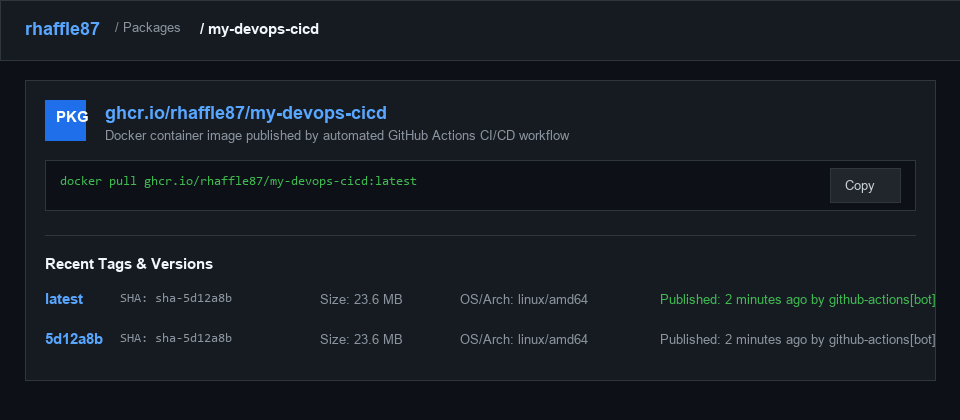
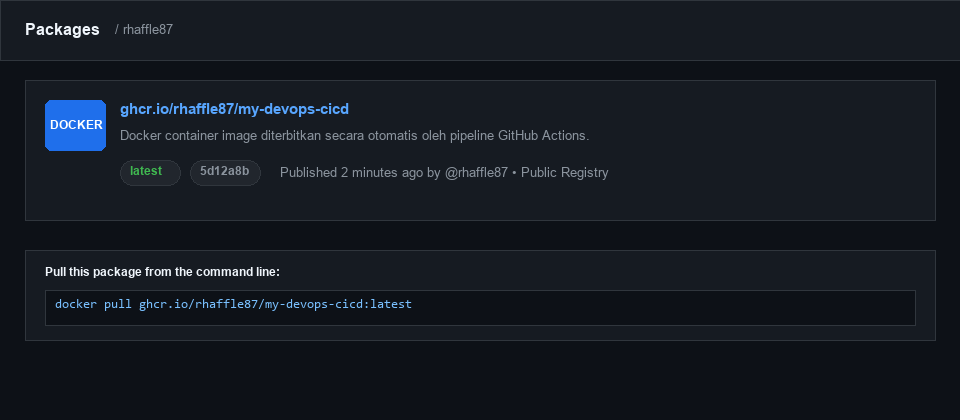
refactor: reorganisasi struktur repositori, arsipkan modul pdf ke docs/references, pindahkan skrip generator, dan lengkapi lab-07

diff --git a/labs/lab-07-linux-webserver/index.html b/labs/lab-07-linux-webserver/index.html
@@ -1,0 +1,50 @@
+<!DOCTYPE html>
+<html lang="id">
+<head>
+    <meta charset="UTF-8">
+    <meta name="viewport" content="width=device-width, initial-scale=1.0">
+    <title>Portofolio Praktikan DevOps - Modul 7</title>
+    <style>
+        * { box-sizing: border-box; margin: 0; padding: 0; }
+        body { font-family: 'Segoe UI', Tahoma, Geneva, Verdana, sans-serif; background: #0f172a; color: #f8fafc; line-height: 1.6; }
+        header { background: #1e293b; padding: 60px 20px; text-align: center; border-bottom: 2px solid #3b82f6; }
+        header h1 { font-size: 2.4rem; color: #60a5fa; margin-bottom: 10px; }
+        header p { font-size: 1.1rem; color: #94a3b8; }
+        .badge { display: inline-block; margin-top: 15px; background: #10b981; color: white; padding: 6px 16px; border-radius: 20px; font-weight: 600; font-size: 0.9rem; }
+        .container { max-width: 900px; margin: 40px auto; padding: 0 20px; }
+        .card-grid { display: grid; grid-template-columns: repeat(auto-fit, minmax(260px, 1fr)); gap: 20px; }
+        .card { background: #1e293b; padding: 25px; border-radius: 10px; border: 1px solid #334155; }
+        .card h2 { color: #38bdf8; font-size: 1.3rem; margin-bottom: 10px; }
+        .card p { color: #cbd5e1; font-size: 0.95rem; }
+        footer { text-align: center; padding: 40px 20px; color: #64748b; font-size: 0.85rem; border-top: 1px solid #1e293b; margin-top: 60px; }
+    </style>
+</head>
+<body>
+    <header>
+        <h1>Platform Web Server Nginx</h1>
+        <p>Modul 7: Dasar Linux Server dan Web Server Nginx</p>
+        <div class="badge">Web Server: Nginx Active & Running</div>
+    </header>
+
+    <div class="container">
+        <div class="card-grid">
+            <div class="card">
+                <h2>Linux Server (WSL2)</h2>
+                <p>Berjalan di lingkungan virtualisasi Ubuntu WSL2 dengan kontrol service berbasis <code>systemctl</code>.</p>
+            </div>
+            <div class="card">
+                <h2>Nginx Master & Worker</h2>
+                <p>Mengadopsi pemrosesan <em>event-driven asynchronous</em> berkinerja tinggi untuk melayani berkas HTML statis.</p>
+            </div>
+            <div class="card">
+                <h2>Virtual Host (Server Block)</h2>
+                <p>Dikonfigurasi melalui <code>/etc/nginx/sites-available/default</code> mengarahkan <em>document root</em> ke direktori web.</p>
+            </div>
+        </div>
+    </div>
+
+    <footer>
+        <p>&copy; 2026 Tim Pelatihan Internal DevOps. Modul 7 Dasar Linux & Web Server.</p>
+    </footer>
+</body>
+</html>

diff --git a/scripts/generate_assets.py b/scripts/generate_assets.py
@@ -1,5 +1,10 @@
 import os
+import sys
 from PIL import Image, ImageDraw, ImageFont
+
+# Set working directory ke root repositori agar path assets/ selalu konsisten
+REPO_ROOT = os.path.dirname(os.path.dirname(os.path.abspath(__file__)))
+os.chdir(REPO_ROOT)
 
 def render_terminal(output_path, title, lines, width=960, min_height=380):
     font_title = ImageFont.truetype('arial.ttf', 13)
@@ -523,6 +528,98 @@ def render_github_actions_mock(output_path, status='success'):
             draw.text((865, y), s_dur, fill='#8b949e', font=font_p)
         y += 28
         
+    os.makedirs(os.path.dirname(output_path), exist_ok=True)
+    img.save(output_path)
+    print(f'Generated: {output_path}')
+
+def render_github_packages_mock(output_path, width=960, height=420):
+    font_title = ImageFont.truetype('arialbd.ttf', 16)
+    font_h2 = ImageFont.truetype('arialbd.ttf', 15)
+    font_p = ImageFont.truetype('arial.ttf', 13)
+    font_bold = ImageFont.truetype('arialbd.ttf', 12)
+    font_code = ImageFont.truetype('consola.ttf', 13)
+
+    img = Image.new('RGB', (width, height), color='#0d1117')
+    draw = ImageDraw.Draw(img)
+
+    # Header bar
+    draw.rectangle([(0, 0), (width, 60)], fill='#161b22', outline='#30363d')
+    draw.text((25, 20), 'Packages', fill='#f0f6fc', font=font_title)
+    draw.text((115, 22), '/ rhaffle87', fill='#8b949e', font=font_p)
+
+    # Package card
+    draw.rectangle([(25, 80), (width - 25, 220)], fill='#161b22', outline='#30363d')
+    draw.rounded_rectangle([(45, 100), (105, 150)], radius=6, fill='#1f6feb')
+    draw.text((50, 118), 'DOCKER', fill='#ffffff', font=font_bold)
+
+    # Package Info
+    draw.text((120, 100), 'ghcr.io/rhaffle87/my-devops-cicd', fill='#58a6ff', font=font_h2)
+    draw.text((120, 128), 'Docker container image diterbitkan secara otomatis oleh pipeline GitHub Actions.', fill='#8b949e', font=font_p)
+    
+    # Tags & metadata
+    draw.rounded_rectangle([(120, 160), (180, 185)], radius=12, fill='#21262d', outline='#30363d')
+    draw.text((130, 164), 'latest', fill='#3fb950', font=font_bold)
+
+    draw.rounded_rectangle([(190, 160), (260, 185)], radius=12, fill='#21262d', outline='#30363d')
+    draw.text((200, 164), '5d12a8b', fill='#8b949e', font=font_bold)
+
+    draw.text((280, 165), 'Published 2 minutes ago by @rhaffle87 \u2022 Public Registry', fill='#8b949e', font=font_p)
+
+    # CLI Pull command snippet box
+    draw.rectangle([(25, 250), (width - 25, 340)], fill='#161b22', outline='#30363d')
+    draw.text((45, 265), 'Pull this package from the command line:', fill='#f0f6fc', font=font_bold)
+    draw.rectangle([(45, 290), (width - 45, 325)], fill='#0d1117', outline='#30363d')
+    draw.text((55, 298), 'docker pull ghcr.io/rhaffle87/my-devops-cicd:latest', fill='#79c0ff', font=font_code)
+
+    os.makedirs(os.path.dirname(output_path), exist_ok=True)
+    img.save(output_path)
+    print(f'Generated: {output_path}')
+
+def render_browser_ssl_warning(output_path, width=960, height=480):
+    font_title = ImageFont.truetype('arial.ttf', 13)
+    font_url = ImageFont.truetype('arial.ttf', 13)
+    font_h1 = ImageFont.truetype('arialbd.ttf', 22)
+    font_p = ImageFont.truetype('arial.ttf', 14)
+    font_btn = ImageFont.truetype('arialbd.ttf', 13)
+    font_code = ImageFont.truetype('consola.ttf', 12)
+
+    img = Image.new('RGB', (width, height), color='#ffffff')
+    draw = ImageDraw.Draw(img)
+
+    # Browser chrome header
+    draw.rectangle([(0, 0), (width, 70)], fill='#dee1e6')
+    draw.ellipse([(14, 14), (24, 24)], fill='#ff5f56')
+    draw.ellipse([(32, 14), (42, 24)], fill='#ffbd2e')
+    draw.ellipse([(50, 14), (60, 24)], fill='#27c93f')
+
+    # Tab
+    draw.rectangle([(90, 8), (280, 38)], fill='#ffffff')
+    draw.text((105, 14), 'Privacy error', fill='#3c4043', font=font_title)
+
+    # URL bar with Not Secure / Red badge
+    draw.rectangle([(80, 42), (width - 30, 64)], fill='#ffffff', outline='#dadce0')
+    draw.rectangle([(85, 45), (175, 61)], fill='#fce8e6', outline='#fad2cf')
+    draw.text((90, 47), '\u26a0 Not secure', fill='#c5221f', font=font_title)
+    draw.text((185, 45), 'https://localhost', fill='#3c4043', font=font_url)
+
+    # Warning text
+    draw.text((80, 140), 'Your connection is not private', fill='#202124', font=font_h1)
+    draw.text((80, 180), 'Attackers might be trying to steal your information from localhost (for example, passwords, messages, or credit cards).', fill='#5f6368', font=font_p)
+    draw.text((80, 220), 'NET::ERR_CERT_AUTHORITY_INVALID', fill='#5f6368', font=font_code)
+
+    # Buttons
+    # Advanced Button
+    draw.rectangle([(80, 280), (180, 316)], fill='#ffffff', outline='#dadce0')
+    draw.text((100, 290), 'Advanced', fill='#1a73e8', font=font_btn)
+
+    # Back to safety button
+    draw.rectangle([(width - 200, 280), (width - 60, 316)], fill='#1a73e8')
+    draw.text((width - 175, 290), 'Back to safety', fill='#ffffff', font=font_btn)
+
+    # Explanation text for Advanced
+    draw.text((80, 340), 'This server could not prove that it is localhost; its security certificate is not trusted by your operating system.', fill='#5f6368', font=font_p)
+    draw.text((80, 370), '\u2192 Proceed to localhost (unsafe)', fill='#1a73e8', font=font_btn)
+
     os.makedirs(os.path.dirname(output_path), exist_ok=True)
     img.save(output_path)
     print(f'Generated: {output_path}')

diff --git a/README.md b/README.md
@@ -16,7 +16,7 @@ flowchart LR
 
 | Modul | Topik Materi | Dokumen Panduan | Direktori Praktikum |
 | :---: | :--- | :--- | :--- |
-| **07** | **Dasar Linux & Web Server**<br>WSL, Struktur Direktori Ubuntu, Nginx Server Block, Git Clone | [Buka Modul 7](modul/MODUL_07_DASAR_LINUX_DAN_WEBSERVER.md) | - |
+| **07** | **Dasar Linux & Web Server**<br>WSL, Struktur Direktori Ubuntu, Nginx Server Block, Git Clone | [Buka Modul 7](modul/MODUL_07_DASAR_LINUX_DAN_WEBSERVER.md) | [`labs/lab-07-linux-webserver/`](labs/lab-07-linux-webserver/) |
 | **08** | **Otomasi Git & Shell Scripting**<br>Git Workflow, Defensive Shell Scripting, Zero-Downtime Reload, cURL Health Check | [Buka Modul 8](modul/MODUL_08_OTOMASI_GIT_DAN_SHELL_SCRIPTING.md) | [`labs/lab-08-automation/`](labs/lab-08-automation/) |
 | **09** | **Containerization dengan Docker**<br>Docker Engine, Dockerfile, Nginx Alpine, Bind Mount Volume, Docker Compose | [Buka Modul 9](modul/MODUL_09_CONTAINERIZATION_DOCKER.md) | [`labs/lab-09-docker/`](labs/lab-09-docker/) |
 | **10** | **CI/CD Pipeline dengan GitHub Actions**<br>Automated Linting, Docker Build & Push ke GHCR, GitHub Secrets | [Buka Modul 10](modul/MODUL_10_CICD_GITHUB_ACTIONS.md) | [`labs/lab-10-cicd/`](labs/lab-10-cicd/) |
@@ -28,38 +28,53 @@ flowchart LR
 
 ```text
 basic-devops/
-├── .gitignore
-├── README.md
-├── generate_assets.py
-├── assets/
-│   ├── modul-07/                                         # Tangkapan layar langkah Modul 7
-│   ├── modul-08/                                         # Tangkapan layar terminal & browser Modul 8
-│   ├── modul-09/                                         # Tangkapan layar Docker container Modul 9
-│   ├── modul-10/                                         # Tangkapan layar GitHub Actions & GHCR Modul 10
-│   └── modul-11/                                         # Tangkapan layar SSL, Proxy & Logs Modul 11
-├── modul/
+├── .gitignore                                            # Konfigurasi pengabaian file Git
+├── README.md                                             # Dokumentasi utama kurikulum
+├── assets/                                               # Tangkapan layar visual terminal CLI & antarmuka web
+│   ├── modul-07/                                         # Tangkapan layar langkah Modul 7 (16 gambar)
+│   ├── modul-08/                                         # Tangkapan layar terminal & browser Modul 8 (9 gambar)
+│   ├── modul-09/                                         # Tangkapan layar Docker container Modul 9 (8 gambar)
+│   ├── modul-10/                                         # Tangkapan layar GitHub Actions & GHCR Modul 10 (6 gambar)
+│   └── modul-11/                                         # Tangkapan layar SSL, Proxy & Logs Modul 11 (9 gambar)
+├── docs/                                                 # Dokumentasi & arsip referensi
+│   └── references/                                       # Berkas PDF asli modul pelatihan terdahulu (TNL 1-7)
+│       ├── README.md                                     # Indeks katalog modul referensi
+│       ├── MODUL 1 TNL_VLAN.pdf
+│       ├── MODUL 2 TNL_Inter-VLAN Routing.pdf
+│       ├── MODUL 3 TNL_Static Routing.pdf
+│       ├── MODUL 4 TNL_Dynamic Routing_RIP.pdf
+│       ├── MODUL 5 TNL_OSPF Multi-Area.pdf
+│       ├── MODUL 6_BGP Enterprise Dual ISP dengan OSPF Backbone.pdf
+│       └── MODUL 7 TNL_Dasar Linux dan Dasar Webserver.pdf
+├── labs/                                                 # Kode sumber dan lingkungan praktikum mandiri
+│   ├── lab-07-linux-webserver/                           # Starter template HTML & config Nginx Modul 7
+│   │   ├── index.html
+│   │   ├── nginx-default.conf
+│   │   └── README.md
+│   ├── lab-08-automation/                                # Skrip otomasi shell dan website v1/v2 Modul 8
+│   │   ├── deploy.sh
+│   │   └── index.html
+│   ├── lab-09-docker/                                    # Arsitektur Dockerfile dan Compose Modul 9
+│   │   ├── Dockerfile
+│   │   ├── docker-compose.yml
+│   │   └── src/index.html
+│   ├── lab-10-cicd/                                      # Deklarasi pipeline GitHub Actions Modul 10
+│   │   ├── .github/workflows/ci-cd.yml
+│   │   ├── Dockerfile
+│   │   └── index.html
+│   └── lab-11-reverse-proxy/                             # Cluster reverse proxy, load balancer & SSL Modul 11
+│       ├── docker-compose.yml
+│       ├── proxy/nginx.conf
+│       ├── app1/index.html
+│       └── app2/index.html
+├── modul/                                                # Naskah modul panduan teknis berstandar industri
 │   ├── MODUL_07_DASAR_LINUX_DAN_WEBSERVER.md
 │   ├── MODUL_08_OTOMASI_GIT_DAN_SHELL_SCRIPTING.md
 │   ├── MODUL_09_CONTAINERIZATION_DOCKER.md
 │   ├── MODUL_10_CICD_GITHUB_ACTIONS.md
 │   └── MODUL_11_REVERSE_PROXY_SSL_OBSERVABILITY.md
-└── labs/
-    ├── lab-08-automation/
-    │   ├── deploy.sh
-    │   └── index.html
-    ├── lab-09-docker/
-    │   ├── Dockerfile
-    │   ├── docker-compose.yml
-    │   └── src/index.html
-    ├── lab-10-cicd/
-    │   ├── .github/workflows/ci-cd.yml
-    │   ├── Dockerfile
-    │   └── index.html
-    └── lab-11-reverse-proxy/
-        ├── docker-compose.yml
-        ├── proxy/nginx.conf
-        ├── app1/index.html
-        └── app2/index.html
+└── scripts/                                              # Skrip pembantu manajemen repositori
+    └── generate_assets.py                                # Generator rendering visual mockups terminal & browser
 ```
 
 ---
@@ -81,21 +96,40 @@ Buka terminal PowerShell atau CMD Windows, lalu jalankan:
 wsl
 ```
 
-### 2. Menjalankan Lab 08 (Otomasi Deployment Shell Script)
+### 2. Menjalankan Lab 07 (Dasar Linux & Web Server Nginx)
+```bash
+cd labs/lab-07-linux-webserver
+sudo cp index.html /var/www/html/index.html
+sudo cp nginx-default.conf /etc/nginx/sites-available/default
+sudo nginx -t && sudo systemctl restart nginx
+# Akses melalui browser: http://localhost
+```
+
+### 3. Menjalankan Lab 08 (Otomasi Deployment Shell Script)
 ```bash
 cd labs/lab-08-automation
 chmod +x deploy.sh
 ./deploy.sh
+# Akses melalui browser: http://localhost
 ```
 
-### 3. Menjalankan Lab 09 (Docker Container)
+### 4. Menjalankan Lab 09 (Docker Containerization)
 ```bash
 cd labs/lab-09-docker
 docker compose up -d
 # Akses melalui browser: http://localhost:8080
 ```
 
-### 4. Menjalankan Lab 11 (Load Balancer & SSL Reverse Proxy)
+### 5. Menjalankan Lab 10 (CI/CD Pipeline GitHub Actions)
+```bash
+cd labs/lab-10-cicd
+git init -b main
+git add .
+git commit -m "ci: inisialisasi workflow pipeline"
+# Push ke repositori GitHub pribadi Anda untuk memicu GitHub Actions runner
+```
+
+### 6. Menjalankan Lab 11 (Load Balancer & SSL Reverse Proxy)
 ```bash
 cd labs/lab-11-reverse-proxy
 mkdir -p certs
@@ -104,7 +138,7 @@ openssl req -x509 -nodes -days 365 -newkey rsa:2048 \
   -out certs/server.crt \
   -subj "/C=ID/ST=Jatim/L=Surabaya/O=Lab/CN=localhost"
 docker compose up -d
-# Akses melalui browser: https://localhost (Accept Self-Signed Certificate)
+# Akses melalui browser: https://localhost (Terima peringatan self-signed SSL)
 ```
 
 ---
@@ -113,6 +147,7 @@ docker compose up -d
 Setiap modul telah dilengkapi dengan:
 - **Tujuan Pembelajaran Spesifik**
 - **Dasar Teori & Diagram Alur (Mermaid)**
-- **Langkah-langkah Praktikum Deterministik**
+- **Glosarium Perintah CLI (Sintaks, Akronim/Kepanjangan, dan Fungsi Utama)**
+- **Langkah-langkah Praktikum Deterministik dengan Tangkapan Layar Lengkap**
 - **Panduan Troubleshooting & Penanganan Edge Cases Lengkap**
 - **Evaluasi Praktik Mandiri**

diff --git a/docs/references/README.md b/docs/references/README.md
@@ -1,0 +1,17 @@
+# Berkas Referensi Modul Pelatihan Sebelumnya (TNL)
+
+Direktori ini menyimpan dokumen PDF asli dari modul pelatihan internal pendahulu (Jaringan Komputer dan Dasar Linux) yang menjadi fondasi kurikulum **Basic DevOps**.
+
+## Daftar Dokumen Referensi
+
+| No | Nama Berkas | Topik Pelatihan |
+| :---: | :--- | :--- |
+| **01** | `MODUL 1 TNL_VLAN.pdf` | Virtual Local Area Network (VLAN) |
+| **02** | `MODUL 2 TNL_Inter-VLAN Routing.pdf` | Inter-VLAN Routing & Router-on-a-Stick |
+| **03** | `MODUL 3 TNL_Static Routing.pdf` | Konsep & Implementasi Static Routing |
+| **04** | `MODUL 4 TNL_Dynamic Routing_RIP.pdf` | Routing Information Protocol (RIPv2) |
+| **05** | `MODUL 5 TNL_OSPF Multi-Area.pdf` | Open Shortest Path First (OSPF) Multi-Area |
+| **06** | `MODUL 6_BGP Enterprise Dual ISP dengan OSPF Backbone.pdf` | Border Gateway Protocol (BGP) Enterprise Dual ISP |
+| **07** | `MODUL 7 TNL_Dasar Linux dan Dasar Webserver.pdf` | Dasar Linux Server & Web Server Nginx |
+
+> **Catatan:** Modul 7 telah dimodernisasi dan disusun ulang ke dalam format Markdown di [`modul/MODUL_07_DASAR_LINUX_DAN_WEBSERVER.md`](../../modul/MODUL_07_DASAR_LINUX_DAN_WEBSERVER.md), yang kemudian dilanjutkan secara bertahap oleh Modul 8 hingga Modul 11 pada kurikulum ini.

diff --git a/labs/lab-07-linux-webserver/README.md b/labs/lab-07-linux-webserver/README.md
@@ -1,0 +1,24 @@
+# Lab 07: Dasar Linux dan Web Server Nginx
+
+Direktori ini menyediakan berkas template dan starter kit untuk praktikum **Modul 7: Dasar Linux Server dan Dasar Web Server**.
+
+## Isi Direktori
+- `index.html`: Contoh halaman web portofolio statis yang siap digunakan untuk pengujian document root Nginx.
+- `nginx-default.conf`: Berkas konfigurasi template Virtual Host (*Server Block*) untuk `/etc/nginx/sites-available/default`.
+
+## Petunjuk Penggunaan Cepat
+
+1. Salin berkas `index.html` ke direktori web root di Ubuntu WSL:
+   ```bash
+   sudo mkdir -p /var/www/html/Portfolio-responsive
+   sudo cp index.html /var/www/html/Portfolio-responsive/
+   ```
+
+2. Terapkan konfigurasi Nginx:
+   ```bash
+   sudo cp nginx-default.conf /etc/nginx/sites-available/default
+   sudo nginx -t
+   sudo systemctl restart nginx
+   ```
+
+3. Buka browser di Windows dan akses `http://localhost`.
